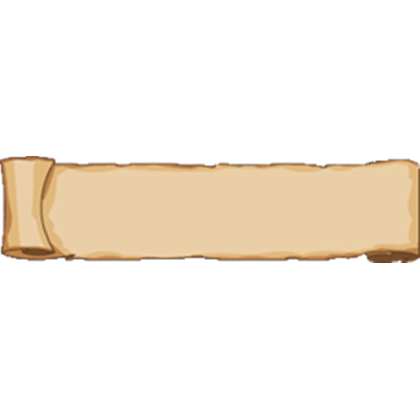
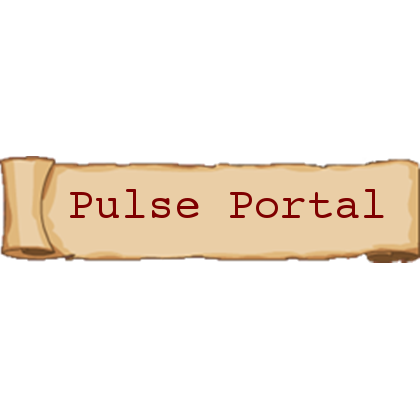
scroll

Changed region(s): [[0.1548, 0.4333, 0.4952, 0.5262], [0.5571, 0.4333, 0.9286, 0.5262]]

diff --git a/web-app/public/css/index.css b/web-app/public/css/index.css
@@ -1,6 +1,6 @@
 body {
   background: RGB(135, 206, 250);
-  font-family: "Avenir";
+  font-family: "Courier";
 }
 
 a, a:hover {
